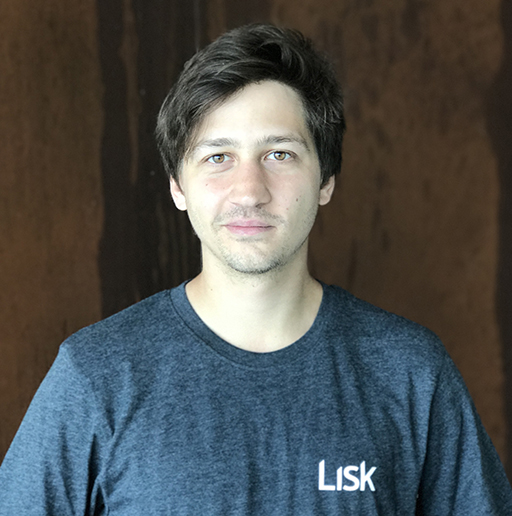
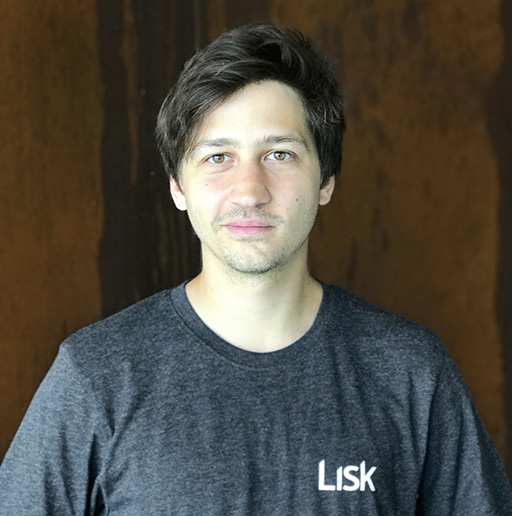
- New team photos - new job positions - other fixigs

diff --git a/routes/careers.js b/routes/careers.js
@@ -3,13 +3,57 @@ var jobs = [
 		img: "backend",
 		position : "Back End Developer",
 		skills: "JavaScript · Node.JS · PostgreSQL",
-		description: "Do you have a passion for coding, cryptography, and algorithms? We are actively looking for back end developers who can efficiently optimise and improve our existing codebase."
+		description: "We are actively looking for back end developers who can efficiently optimise and improve our existing codebases.",
+		link: "https://angel.co/lisk/jobs/180319-back-end-developer"
+	},
+	{
+		img: "frontend",
+		position : "Front End Developer",
+		skills: "JavaScript · React",
+		description: "We are actively looking for front end developers who can bring the Lisk user interfaces to an entirely new level.",
+		link: "https://angel.co/lisk/jobs/180316-front-end-developer"
+	},
+	{
+		img: "qa",
+		position : "Back End QA Engineer",
+		skills: "Node.JS · PostgreSQL · Cryptography",
+		description: "We are actively looking for a backend QA engineer who can help the Lisk project achieve the very highest standards in code quality, performance and security.",
+		link: "https://angel.co/lisk/jobs/255681-back-end-qa-engineer"
+	},
+	{
+		img: "devops",
+		position : "DevOps Engineer",
+		skills: "git · network configurations · data collection systems",
+		description: "We are actively looking for a backend QA engineer who can assist the Lisk project in configuring and orchestrating its entire development infrastructure.",
+		link: "https://angel.co/lisk/jobs/256017-devops-engineer"
 	},
 	{
 		img: "designer",
-		position : "Designer",
+		position : "Designer / Illustrator",
 		skills: "Photoshop · Illustrator · Vector",
-		description: "We are actively looking for an awesome designer with a great eye for beautiful and simplistic designs. Your tasks would be to design infographics, illustrations, icons, logos, UI/UX, banners, and more. If you are interested, feel free to send us your portfolio!"
+		description: "We are actively looking for a designer with a great eye for beautiful and simplistic designs. Please attach a portfolio to your application!",
+		link: "https://angel.co/lisk/jobs/251295-designer-illustrator"
+	},
+	{
+		img: "marketing",
+		position : "Marketing / Communications",
+		skills: "English native",
+		description: "We are actively looking for people with personality to join our passionate marketing and communications team to help drive the ideation, development and execution of marketing and communications strategies for Lisk.",
+		link: "https://angel.co/lisk/jobs/250443-marketing-and-communications"
+	},
+	{
+		img: "hr",
+		position : "HR Manager",
+		skills: "German native",
+		description: "We are actively looking for a HR manager to be responsible for the hiring process, operations and culture establishment of the Lisk team.",
+		link: "https://angel.co/lisk/jobs/251255-hr-manager"
+	},
+	{
+		img: "office",
+		position : "Office Manager / Executive Assistant / Bookkeeper",
+		skills: "German native",
+		description: "We are actively looking for a multi-talent to help us with important day to day operations.",
+		link: "https://angel.co/lisk/jobs/253405-office-manager-executive-assistant-bookkeeper"
 	}
 ];
 

diff --git a/routes/team.js b/routes/team.js
@@ -6,6 +6,12 @@ var members = [
 		hired: " "
 	},
 	{
+		name: "Diego Garcia",
+		pic: "diego",
+		post: "Back End Developer",
+		hired: " "
+	},
+	{
 		name: "Isabella Dell",
 		pic: "isabella",
 		post: "System Architect",
@@ -15,6 +21,12 @@ var members = [
 		name: "Joel Fernandez",
 		pic: "joel",
 		post: "Communications Lead",
+		hired: " "
+	},
+	{
+		name: "Lindsay Buescher",
+		pic: "lindsay",
+		post: "Marketing Manager",
 		hired: " "
 	},
 	{
@@ -29,6 +41,12 @@ var members = [
 		post: "Co-Founder",
 	},
 	{
+		name: "Mariusz Serek",
+		pic: "mariusz",
+		post: "Back End Developer",
+		hired: " "
+	},
+	{
 		name: "Oliver Beddows",
 		pic: "oliver",
 		post: "Co-Founder",
@@ -37,35 +55,6 @@ var members = [
 		name: "Thomas Schouten",
 		pic: "thomas",
 		post: "Marketing Lead",
-		hired: " "
-	},
-	{
-		name: "Vit Stanislav",
-		pic: "vit",
-		post: "Front End Developer",
-		hired: " "
-	},
-	{
-		name: "Diego Garcia",
-		pic: "diego",
-		post: "Back End Developer",
-		hired: " "
-	},
-	{
-		name: "Guido Schmitz-Krummacher",
-		pic: "guido",
-		post: "Legal & Financials",
-	},
-	{
-		name: "Lucas Isasmendi",
-		pic: "lucas",
-		post: "Back End Developer",
-		hired: " "
-	},
-	{
-		name: "Mariusz Serek",
-		pic: "mariusz",
-		post: "Back End Developer",
 		hired: " "
 	},
 	{
@@ -81,9 +70,21 @@ var members = [
 		hired: " "
 	},
 	{
+		name: "Vit Stanislav",
+		pic: "vit",
+		post: "Front End Developer",
+		hired: " "
+	},
+	{
 		name: "Will Clark",
 		pic: "will",
 		post: "Full Stack Developer",
+		hired: " "
+	},
+	{
+		name: "Lucas Isasmendi",
+		pic: "lucas",
+		post: "Back End Developer",
 		hired: " "
 	},
 	{
@@ -91,6 +92,11 @@ var members = [
 		pic: "yashar",
 		post: "Front End Developer",
 		hired: " "
+	},
+	{
+		name: "Guido Schmitz-Krummacher",
+		pic: "guido",
+		post: "Legal & Financials",
 	}
 ];
 
@@ -100,18 +106,6 @@ var correspondents = [
 		lang: "china",
 		country: "China",
 		pm: "mailto:china@liskambassador.io"
-	},
-	{
-		name: "Daniel B.",
-		lang: "germany",
-		country: "Germany",
-		pm: "mailto:germany@liskambassador.io"
-	},
-	{
-		name: "Kostayntyn Ahafontsev",
-		lang: "ukraine",
-		country: "Ukraine",
-		pm: "mailto:ukraine@liskambassador.io"
 	},
 	{
 		name: "Stefan Neagu",

diff --git a/app.js b/app.js
@@ -107,13 +107,13 @@ var hbs = exphbs.create({
 			return "50";
 		},
 		nano_macos : function () {
-			return "https://downloads.lisk.io/lisk-nano/1.0.2/lisk-nano-mac-1.0.2.dmg";
+			return "https://downloads.lisk.io/lisk-nano/1.0.1/lisk-nano-mac-1.0.1.dmg";
 		},
 		nano_windows : function () {
-			return "https://downloads.lisk.io/lisk-nano/1.0.2/lisk-nano-win-1.0.2.exe";
+			return "https://downloads.lisk.io/lisk-nano/1.0.1/lisk-nano-win-1.0.1.exe";
 		},
 		nano_linux : function () {
-			return "https://downloads.lisk.io/lisk-nano/1.0.2/lisk-nano-1.0.2-x86_64.AppImage";
+			return "https://downloads.lisk.io/lisk-nano/1.0.1/lisk-nano-1.0.1-x86_64.AppImage";
 		},
 		docker : function () {
 			return "https://github.com/LiskHQ/lisk-wiki/wiki/Docker-Install";
@@ -130,8 +130,8 @@ var hbs = exphbs.create({
 		blog : function () {
 			return "http://blog.lisk.io";
 		},
-		liskcli : function () {
-			return "https://www.npmjs.com/package/lisk-cli";
+		lisky : function () {
+			return "https://www.npmjs.com/package/lisky";
 		},
 		liskjs : function () {
 			return "https://www.npmjs.com/package/lisk-js";
